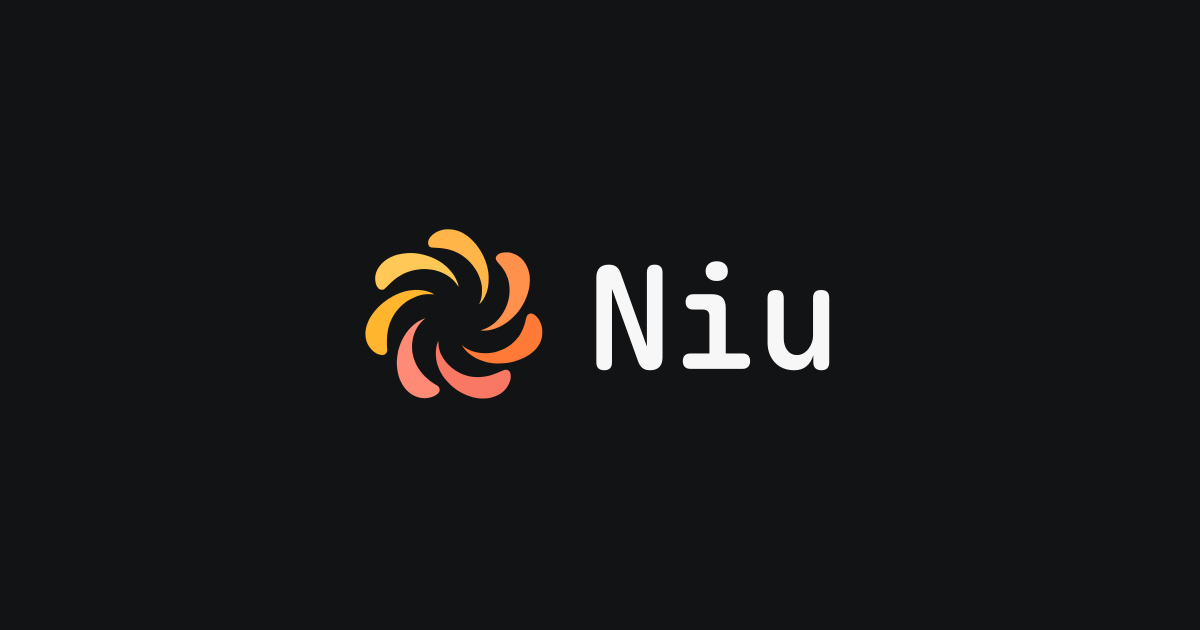
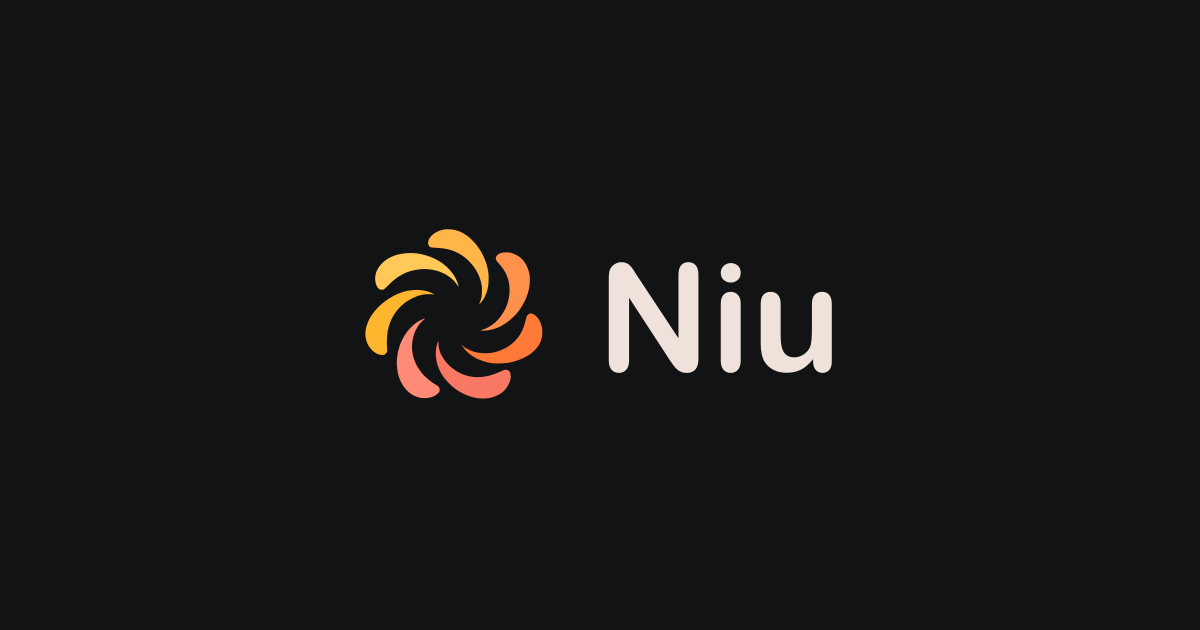
feat(brand): apply warm Arial Rounded wordmark

Changed region(s): [[0.4933, 0.3921, 0.7092, 0.6032]]

diff --git a/src/styles/identity.css b/src/styles/identity.css
@@ -1,4 +1,6 @@
 /* Brand artwork follows the surrounding theme; language changes do not need reloads. */
-.niu-brand { display:inline-flex; flex:none; height:2.25rem; vertical-align:middle; color:inherit; }
+.niu-brand { display:inline-flex; flex:none; height:2.25rem; vertical-align:middle; color:var(--niu-wordmark-color, #45352F); }
 .niu-brand > svg { display:block; height:100%; width:auto; overflow:visible; }
 .niu-brand-mark { width:2rem; height:2rem; }
+
+:root.dark .niu-brand, :root[data-theme="dark"] .niu-brand { --niu-wordmark-color:#EFE2DA; }
